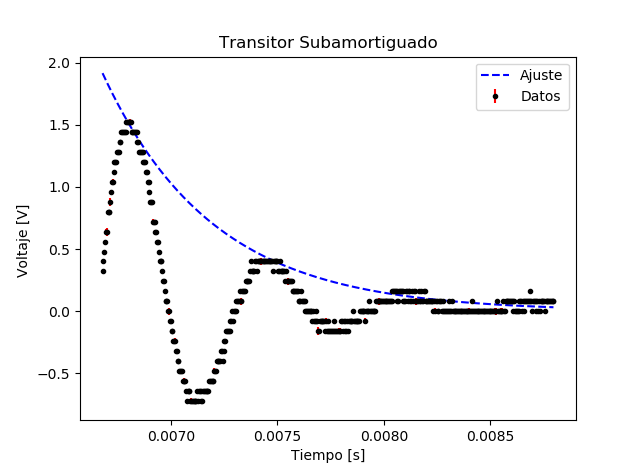
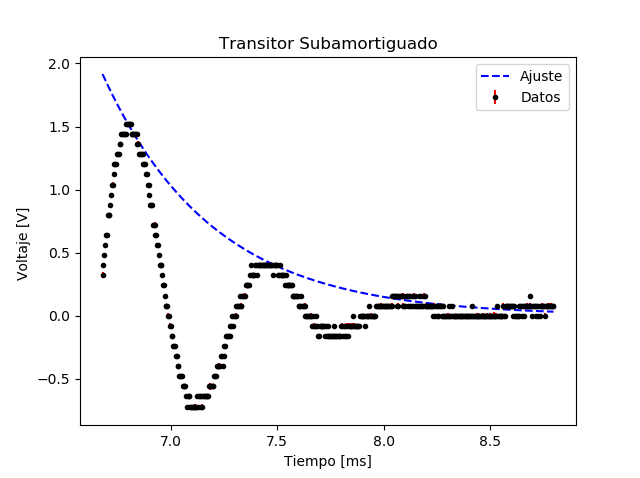
s a ms

diff --git a/Labo3/Transitores/RC.py b/Labo3/Transitores/RC.py
@@ -37,7 +37,7 @@ plt.scatter(t,V,s= 0.1,color = "red")
 plt.show()
 
 
-def chisqg(ydata,ymod,sd=None):  
+def chisqg(ydata,ymod,deg=2497,sd=None):  
       """  
  Returns the chi-square error statistic as the sum of squared errors between  
  Ydata(i) and Ymodel(i). If individual standard deviations (array sd) are supplied,   
@@ -59,6 +59,38 @@ def chisqg(ydata,ymod,sd=None):
         
       return chisq  
 chi = chisqg(V, f(t,param[0],param[1],param[2]))
-print("chisquered: " + chi)
+print("chisquered: " + str(chi))
 
-
+def redchisqg(ydata,ymod,deg=2490,sd=None):  
+      """  
+ Returns the reduced chi-square error statistic for an arbitrary model,   
+ chisq/nu, where nu is the number of degrees of freedom. If individual   
+ standard deviations (array sd) are supplied, then the chi-square error   
+ statistic is computed as the sum of squared errors divided by the standard   
+ deviations. See http://en.wikipedia.org/wiki/Goodness_of_fit for reference.  
+   
+ ydata,ymod,sd assumed to be Numpy arrays. deg integer.  
+   
+ Usage:  
+ >>> chisq=redchisqg(ydata,ymod,n,sd)  
+ where  
+  ydata : data  
+  ymod : model evaluated at the same x points as ydata  
+  n : number of free parameters in the model  
+  sd : uncertainties in ydata  
+   
+ Rodrigo Nemmen  
+ http://goo.gl/8S1Oo  
+       """  
+      # Chi-square statistic  
+      if sd==None:  
+           chisq=np.sum((ydata-ymod)**2)  
+      else:  
+           chisq=np.sum( ((ydata-ymod)/sd)**2 )  
+             
+      # Number of degrees of freedom assuming 2 free parameters  
+      nu=ydata.size-1-deg  
+        
+      return chisq/nu       
+redchi = redchisqg(V, f(t,param[0],param[1],param[2]))
+print("reduced chisquared: " + str(redchi))

diff --git a/Labo3/Transitores/RLC_sub.py b/Labo3/Transitores/RLC_sub.py
@@ -55,14 +55,14 @@ for i in range(530):
 param, param_cov = curve_fit(f,xmax,ymax, p0=[1.52,2/4000]) 
 
 plt.figure()
-plt.plot(Tiempo(tiempo),f(Tiempo(tiempo),param[0],param[1]), '--', color ='blue', label ="Ajuste") 
+plt.plot(Tiempo(tiempo)*1000,f(Tiempo(tiempo),param[0],param[1]), '--', color ='blue', label ="Ajuste") 
 #plt.scatter(Tiempo(tiempo),V(Vc),s= 5,color = "blue",alpha=0.4, label ="Datos")
-plt.errorbar(Tiempo(tiempo),V(Vc),yerr=err, fmt='.',color ='black',label ="Datos", ecolor = 'red')
+plt.errorbar(Tiempo(tiempo)*1000,V(Vc),yerr=err, fmt='.',color ='black',label ="Datos", ecolor = 'red')
 
 #plt.scatter(tiempo,Vfuente,color='orange',s= 0.5)
 #plt.ylim(0,5)
 plt.title('Transitor Subamortiguado')
-plt.xlabel('Tiempo [s]')
+plt.xlabel('Tiempo [ms]')
 plt.ylabel('Voltaje [V] ')
 plt.legend()
 plt.show()

diff --git a/Labo3/Transitores/RL.py b/Labo3/Transitores/RL.py
@@ -40,12 +40,12 @@ for i in range(478):
 
 
 plt.figure()
-plt.plot(Tiempo(tiempo),f(Tiempo(tiempo),param[0],param[1]), '--', color ='blue', label ="Ajuste") 
-plt.errorbar(Tiempo(tiempo),V(Vc),yerr=err, fmt='.',color ='black',label ="Datos", ecolor = 'red')
+plt.plot(Tiempo(tiempo)*1000,f(Tiempo(tiempo),param[0],param[1]), '--', color ='blue', label ="Ajuste") 
+plt.errorbar(Tiempo(tiempo)*1000,V(Vc),yerr=err, fmt='.',color ='black',label ="Datos", ecolor = 'red')
 #plt.scatter(tiempo,Vfuente,color='orange',s= 0.5)
 #plt.ylim(0,5)
 plt.title('Transitor RL')
-plt.xlabel('Tiempo [s]')
+plt.xlabel('Tiempo [ms]')
 plt.ylabel('Voltaje[V] ')
 plt.legend()
 plt.show()
